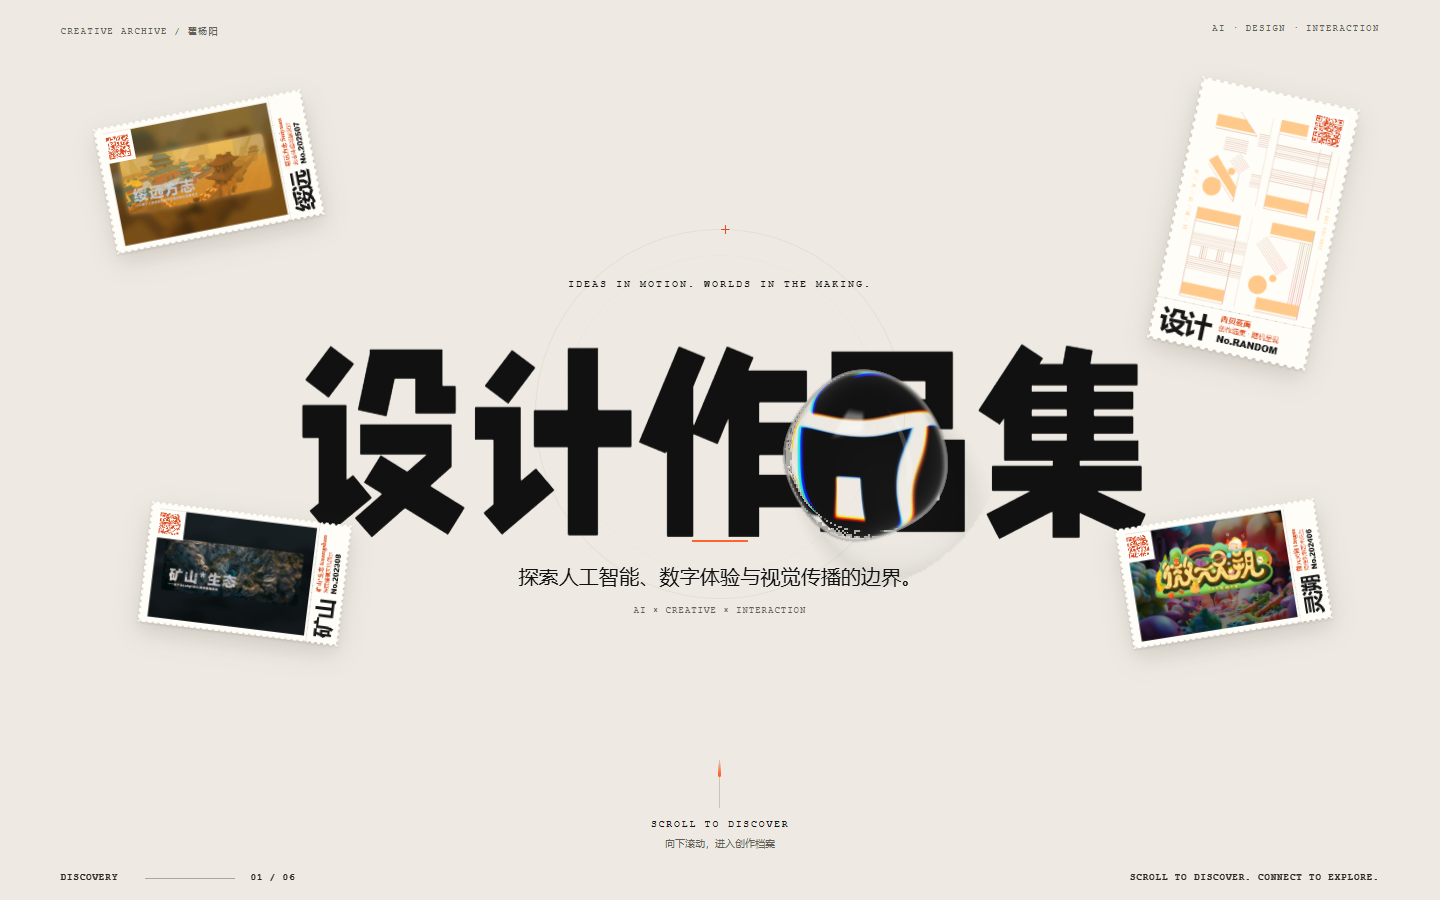
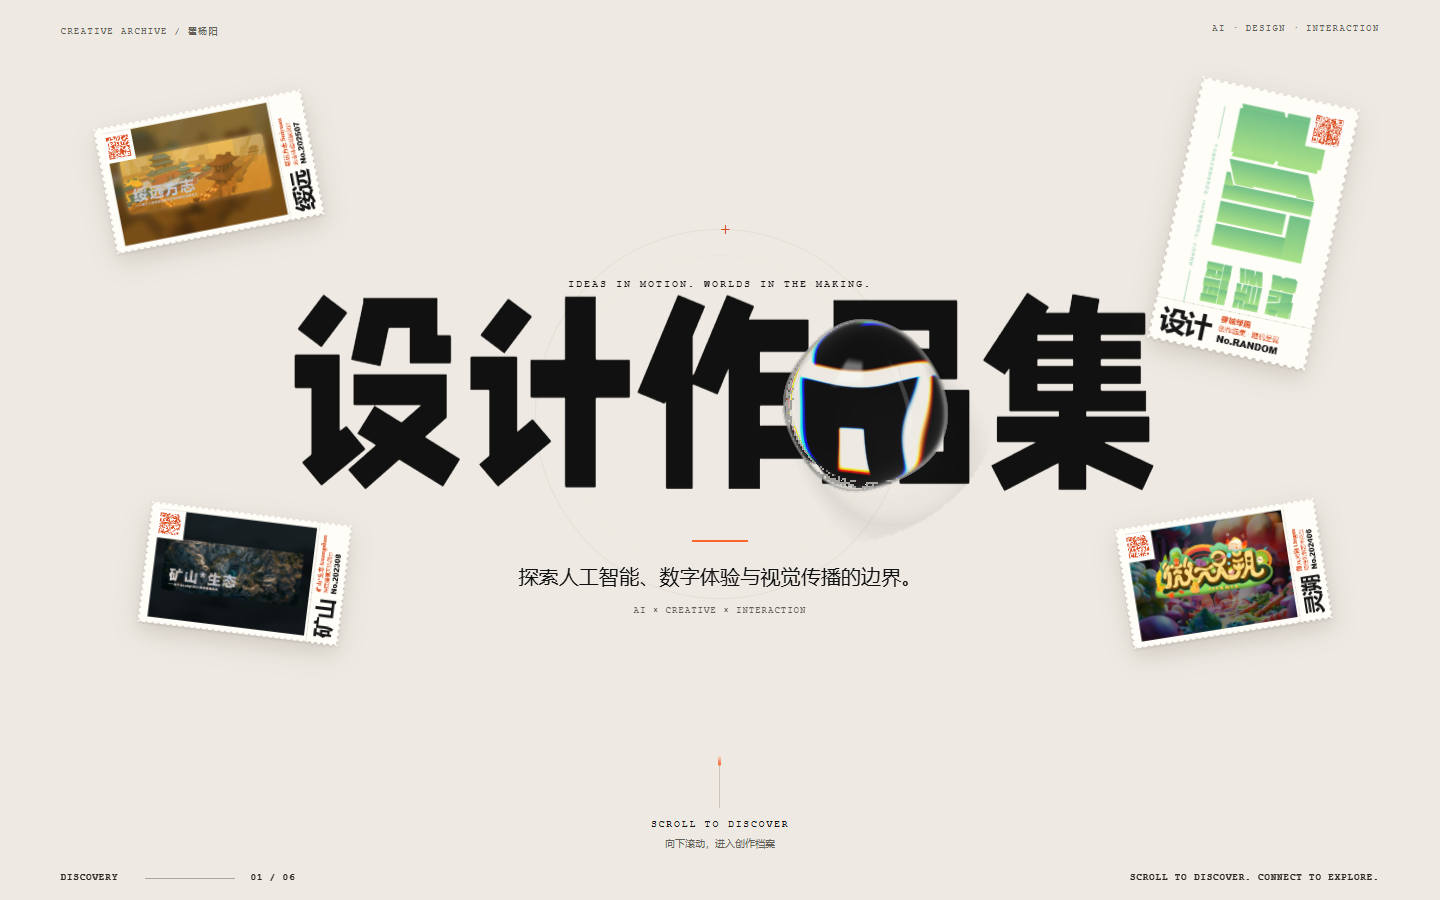
扩大玻璃交互-上移标题

Changed region(s): [[0.1875, 0.3111, 0.8125, 0.6222], [0.8125, 0.0933, 0.9375, 0.3733]]

diff --git a/New/js/components/GlassTitle.jsx b/New/js/components/GlassTitle.jsx
@@ -1,8 +1,16 @@
-import { useEffect, useState } from 'react';
+import { useEffect, useRef, useState } from 'react';
 import FluidGlass from './FluidGlass';
 import '../../css/glass-title.css';
 
 export function GlassTitle() {
+  const title = useRef(null);
+  const [fontSize, setFontSize] = useState(100);
+  useEffect(() => {
+    const update = () => setFontSize(parseFloat(getComputedStyle(title.current).fontSize));
+    const observer = new ResizeObserver(update);
+    observer.observe(title.current); update();
+    return () => observer.disconnect();
+  }, []);
   const [reduced, setReduced] = useState(false);
   const [fontReady, setFontReady] = useState(false);
   const [entered, setEntered] = useState(false);
@@ -31,10 +39,10 @@ export function GlassTitle() {
     return () => { active = false; media.removeEventListener('change', update); };
   }, []);
   return <div className="hero-glass-title">
-    <h1 id="hero-title">设计作品集</h1>
+    <h1 ref={title} id="hero-title">设计作品集</h1>
     {entered && fontReady && !reduced && <div className="hero-glass-title__effect" aria-hidden="true">
       <FluidGlass text="设计作品集" fontFamily="PortfolioTitle, Microsoft YaHei, sans-serif"
-        fontWeight={400} textColor="#111111" shape="blob" size={190}
+        fontWeight={400} fontSize={fontSize} textColor="#111111" shape="blob" size={190}
         interaction="follow" refraction={.85} dispersion={.85} reflection={.75}
         shadow={.18} elevation={.25} wobble={.4} morphOnClick={false}
         maxDevicePixelRatio={1.5} />

diff --git a/New/css/glass-title.css b/New/css/glass-title.css
@@ -4,15 +4,16 @@
   font-weight: 400;
   font-display: swap;
 }
-.hero-glass-title { position:relative; width:100%; height:clamp(160px,21vw,380px); }
+.hero-glass-title { position:relative; top:clamp(-60px,-3.5vw,-30px); width:100%; height:clamp(160px,21vw,380px); }
 .hero .hero-glass-title h1 {
   position:absolute; inset:0; display:grid; place-items:center; margin:0;
   font-family:PortfolioTitle,'Microsoft YaHei',sans-serif; font-weight:400;
   font-size:clamp(70px,13.4vw,243px); letter-spacing:-.03em; line-height:1;
 }
-.hero-glass-title__effect { position:absolute; inset:0; }
+.hero-glass-title__effect { position:absolute; inset:-110px 0; }
 .hero-glass-title:has(.fluid-glass[data-rendered='true']) h1 { opacity:0; }
 @media(max-width:600px) {
-  .hero-glass-title { height:150px; }
+  .hero-glass-title { height:150px; top:-15px; }
+  .hero-glass-title__effect { inset:-80px 0; }
   .hero .hero-glass-title h1 { font-size:16vw; }
 }
